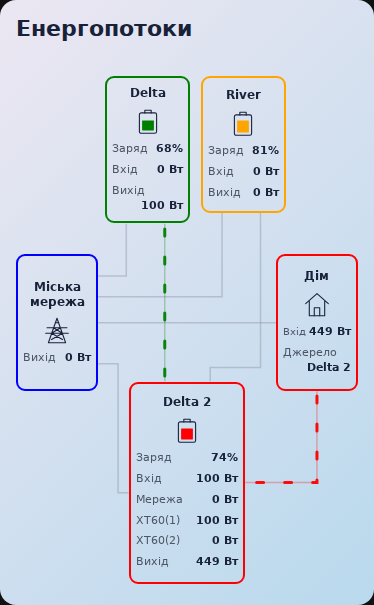
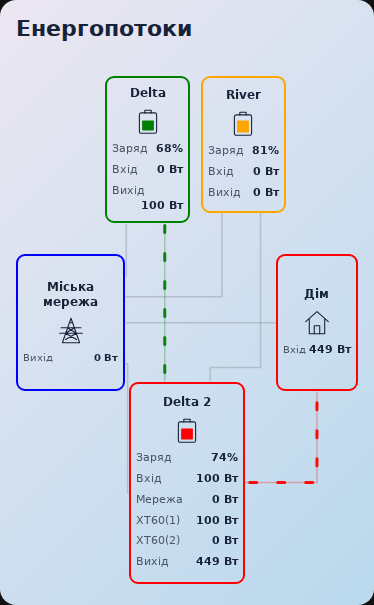
Simplify home block and keep grid output on one line
Release 0.1.9: remove the home source text, show city grid power from 1000 W in kW and fit the entire output row on mobile. Preserve source colors and flow logic.

diff --git a/suris-ecoflow-flow-card.js b/suris-ecoflow-flow-card.js
@@ -1,8 +1,8 @@
-/* Suris EcoFlow Flow Card v0.1.8 | MIT | No external dependencies. */
+/* Suris EcoFlow Flow Card v0.1.9 | MIT | No external dependencies. */
 (() => {
   'use strict';
   const TAG = 'suris-ecoflow-flow-card';
-  const VERSION = '0.1.8';
+  const VERSION = '0.1.9';
   const NS = 'http://www.w3.org/2000/svg';
   let cardSequence = 0;
   const DEFAULTS = {
@@ -127,10 +127,10 @@
     .flow path{fill:none;stroke:var(--divider-color,#60656d);stroke-width:1.5;stroke-linejoin:miter;stroke-linecap:butt;opacity:.40}.flow.active .flow-track{stroke:var(--color);opacity:.28}.flow .flow-dashes{stroke:var(--color);stroke-width:3;stroke-linecap:round;stroke-dasharray:7 21;opacity:.95;visibility:hidden}.flow.active .flow-dashes{visibility:visible}
     .node{position:absolute;display:flex;flex-direction:column;justify-content:center;gap:7px;min-width:0;background:transparent;background:color-mix(in srgb,var(--ha-card-background,var(--card-background-color,#1c1c1c)) 8%,transparent);border:2px solid var(--node-color,var(--divider-color,#60656d));border-radius:12px;padding:12px 10px;z-index:1;min-height:max(140px,22cqw);height:auto}
     .node h3{font-size:clamp(12px,1.9cqw,20px);line-height:1.25;text-align:center;margin:0;font-weight:600;overflow-wrap:anywhere}.node .icon{display:flex;justify-content:center;height:clamp(30px,5cqw,56px);margin:4px 0}.icon svg{height:100%;width:64px;fill:none;stroke:currentColor;stroke-width:2.4;stroke-linecap:round;stroke-linejoin:round}.icon .battery-fill{fill:var(--node-color,var(--flow-main));stroke:none}
-    .row{display:flex;align-items:baseline;justify-content:space-between;gap:4px;font-size:clamp(11px,1.6cqw,17px);line-height:1.35;min-width:0}.label{color:var(--secondary-text-color,#aaa);overflow-wrap:anywhere}.value{font:inherit;color:inherit;font-weight:600;text-align:right;white-space:nowrap;background:none;border:0;padding:0;min-width:0}.value[data-entity]{cursor:pointer}.value:focus-visible{outline:2px solid var(--flow-main);outline-offset:2px}.value:disabled{opacity:1}.source{flex-wrap:wrap}.source .label{width:100%}.source .value{margin-left:auto;white-space:normal;overflow-wrap:anywhere}
+    .row{display:flex;align-items:baseline;justify-content:space-between;gap:4px;font-size:clamp(11px,1.6cqw,17px);line-height:1.35;min-width:0}.label{color:var(--secondary-text-color,#aaa);overflow-wrap:anywhere}.value{font:inherit;color:inherit;font-weight:600;text-align:right;white-space:nowrap;background:none;border:0;padding:0;min-width:0}.value[data-entity]{cursor:pointer}.value:focus-visible{outline:2px solid var(--flow-main);outline-offset:2px}.value:disabled{opacity:1}
     .grid{left:0;top:37%;width:22%}.home{right:0;top:37%;width:22%}.auxiliary_1{left:29%;top:3%;width:22%}.auxiliary_2{left:55%;top:3%;width:22%}.main{left:36%;bottom:1%;width:28%;min-height:max(220px,28cqw)}
     .status{margin-top:8px;color:var(--secondary-text-color,#aaa);font-size:12px;min-height:16px;text-align:center}.status:empty{display:none}
-    @container(max-width:520px){.diagram{height:540px}.node{padding:8px 5px;gap:6px;border-radius:9px;min-height:137px}.node h3{font-size:12px}.node .icon{height:29px;margin:0}.row{font-size:11px;flex-wrap:wrap;gap:0 3px}.row .value{margin-left:auto}.grid,.home{width:24%;top:38%}.home .power .label{font-size:clamp(8px,2.8cqw,11px);overflow-wrap:normal}.auxiliary_1{left:26%;width:25%;top:5%}.auxiliary_2{left:54%;width:25%;top:5%}.main{left:33%;width:34%;min-height:202px}}
+    @container(max-width:520px){.diagram{height:540px}.node{padding:8px 5px;gap:6px;border-radius:9px;min-height:137px}.node h3{font-size:12px}.node .icon{height:29px;margin:0}.row{font-size:11px;flex-wrap:wrap;gap:0 3px}.row .value{margin-left:auto}.grid .row{flex-wrap:nowrap;gap:2px;font-size:clamp(8px,2.9cqw,11px)}.grid .row .label{white-space:nowrap}.grid .value{flex-shrink:0}.grid,.home{width:24%;top:38%}.grid{width:32%}.home .power .label{font-size:clamp(8px,2.8cqw,11px);overflow-wrap:normal}.auxiliary_1{left:26%;width:25%;top:5%}.auxiliary_2{left:54%;width:25%;top:5%}.main{left:33%;width:34%;min-height:202px}}
     @media(prefers-reduced-motion:reduce){.flow .flow-dashes{display:none}.flow.active .flow-track{stroke-width:3;opacity:.92}}
   `;
   class SurisEcoFlowFlowCard extends HTMLElement {
@@ -196,7 +196,7 @@
         const artwork = document.createElement('div'); artwork.className = 'icon'; artwork.innerHTML = icon(key === 'grid' ? 'grid' : key === 'home' ? 'home' : 'battery');
         node.append(heading, artwork);
         if (key === 'grid') this._row(node, 'output', text.output);
-        else if (key === 'home') { this._row(node, 'power', text.input); this._row(node, 'source', text.source); }
+        else if (key === 'home') this._row(node, 'power', text.input);
         else {
           this._row(node, 'soc', text.soc); this._row(node, 'input', text.input);
           if (key === 'main') { this._row(node, 'ac', text.ac); this._row(node, 'solar_1', 'XT60(1)'); this._row(node, 'solar_2', 'XT60(2)'); }
@@ -224,12 +224,12 @@
         const [node, field] = key.split('.'); let value = data[node][field];
         let entity = c[node][field === 'soc' ? 'soc' : `${field}_power`];
         if (node === 'grid') entity = c.grid.power;
-        if (node === 'home') entity = field === 'source' ? c.grid.available_entity : c.home.power;
+        if (node === 'home') entity = c.home.power;
         if (node === 'main' && field === 'ac') entity = c.main.ac_input_power;
         if (node === 'main' && field === 'solar_1') entity = c.main.solar_input_power;
         if (node === 'main' && field === 'solar_2') entity = c.main.solar_input_power_2;
-        if (field === 'source') value = value === 'grid' ? c.grid.name : value === 'main' ? c.main.name : text.unknown;
-        else if (field === 'soc') value = value != null && value >= 0 && value <= 100 ? `${formatter.format(value)}%` : '—';
+        if (field === 'soc') value = value != null && value >= 0 && value <= 100 ? `${formatter.format(value)}%` : '—';
+        else if (node === 'grid' && value != null && Math.abs(value) >= 1000) value = `${new Intl.NumberFormat(c.language === 'en' ? 'en' : 'uk', { maximumFractionDigits: 2, useGrouping: false }).format(value / 1000)} ${c.language === 'en' ? 'kW' : 'кВт'}`;
         else value = value == null ? '—' : `${formatter.format(value)} ${text.watts}`;
         button.textContent = value;
         if (entity) button.dataset.entity = entity; else delete button.dataset.entity;

diff --git a/README.md b/README.md
@@ -1,4 +1,4 @@
-# Suris EcoFlow Flow Card 0.1.8
+# Suris EcoFlow Flow Card 0.1.9
 
 Картка Home Assistant із візуальним редактором сутностей. Міська мережа ліворуч, дім праворуч, дві допоміжні EcoFlow зверху, головна EcoFlow знизу. Значення потужності містяться у квадратних блоках; на лініях лише рух потоку. Працює локально, без сторонніх бібліотек, CDN та збірки.
 
@@ -16,7 +16,7 @@
 
 1. Скопіюй `suris-ecoflow-flow-card.js` до папки `www` у каталозі конфігурації Home Assistant. Через Studio Code Server це зазвичай `/config/www`; в окремих версіях середовища каталог може відображатися як `/homeassistant/www`. Використовуй той каталог, у якому розташований `configuration.yaml`. Можна скористатися Samba або завантаженням файлу в редакторі. Якщо папку `www` щойно створено вперше, перезапусти Home Assistant.
 2. Відкрий **Налаштування → Панелі огляду → ⋮ → Ресурси → Додати ресурс**. Якщо «Ресурси» не видно, увімкни розширений режим у профілі користувача.
-3. URL: `/local/suris-ecoflow-flow-card.js?v=0.1.8`. Тип: **JavaScript module**.
+3. URL: `/local/suris-ecoflow-flow-card.js?v=0.1.9`. Тип: **JavaScript module**.
 4. Онови сторінку Home Assistant. За потреби очисть кеш інтерфейсу в застосунку.
 5. На панелі огляду натисни **Редагувати → Додати картку**, знайди **Suris EcoFlow Flow Card**.
 6. Вибери сутності у візуальному редакторі. YAML не потрібен.
@@ -82,7 +82,7 @@
 
 Усі сім ліній складаються лише з горизонтальних і вертикальних відрізків із прямими кутами. Міська мережа має окрему лінію до кожної станції та дому. Від першої допоміжної EcoFlow до головної проходить одна пряма вертикальна лінія. Від головної станції до дому лінія повертає лише один раз і входить у дім знизу. Короткі рухомі штрихи без стрілок повторюють ці самі маршрути від джерела до споживача.
 
-Значки батарей усіх трьох станцій показують рівень заповнення за їхніми датчиками заряду. 0% — порожня батарея, 100% — повна. Якщо заряд невідомий, недоступний або поза діапазоном 0–100%, усередині батареї відображається прочерк. Колір заповнення відповідає кольору станції. У домі потужність підписана «Вхід» і показується без знака приблизного значення.
+Значки батарей усіх трьох станцій показують рівень заповнення за їхніми датчиками заряду. 0% — порожня батарея, 100% — повна. Якщо заряд невідомий, недоступний або поза діапазоном 0–100%, усередині батареї відображається прочерк. Колір заповнення відповідає кольору станції. У домі потужність підписана «Вхід» і показується без знака приблизного значення. Рядок із назвою джерела прибрано: активне джерело видно за потоком і кольором рамки. У блоці міської мережі значення від 1000 Вт показуються у кВт із точністю до двох десяткових знаків; менші — у Вт. Підпис «Вихід», число та одиниця залишаються в одному рядку. На вузькому екрані блок мережі ширший, а розмір його рядка адаптується до ширини картки.
 
 Фон квадратних блоків майже прозорий і має лише легкий відтінок кольору теми картки. Градієнтний фон картки видно крізь блоки.
 

diff --git a/CHANGELOG.md b/CHANGELOG.md
@@ -1,5 +1,11 @@
 # Changelog
 
+## 0.1.9
+
+- Remove the home source text row; retain source-based border colors and flow logic.
+- Display city grid power from 1000 W in kW with up to two decimals and no grouping.
+- Keep the entire grid output row, including its label, value and unit, on one line; widen the grid block in narrow layouts.
+
 ## 0.1.8
 
 - Replace moving dots with short dashes without arrows on the same seven orthogonal routes.
